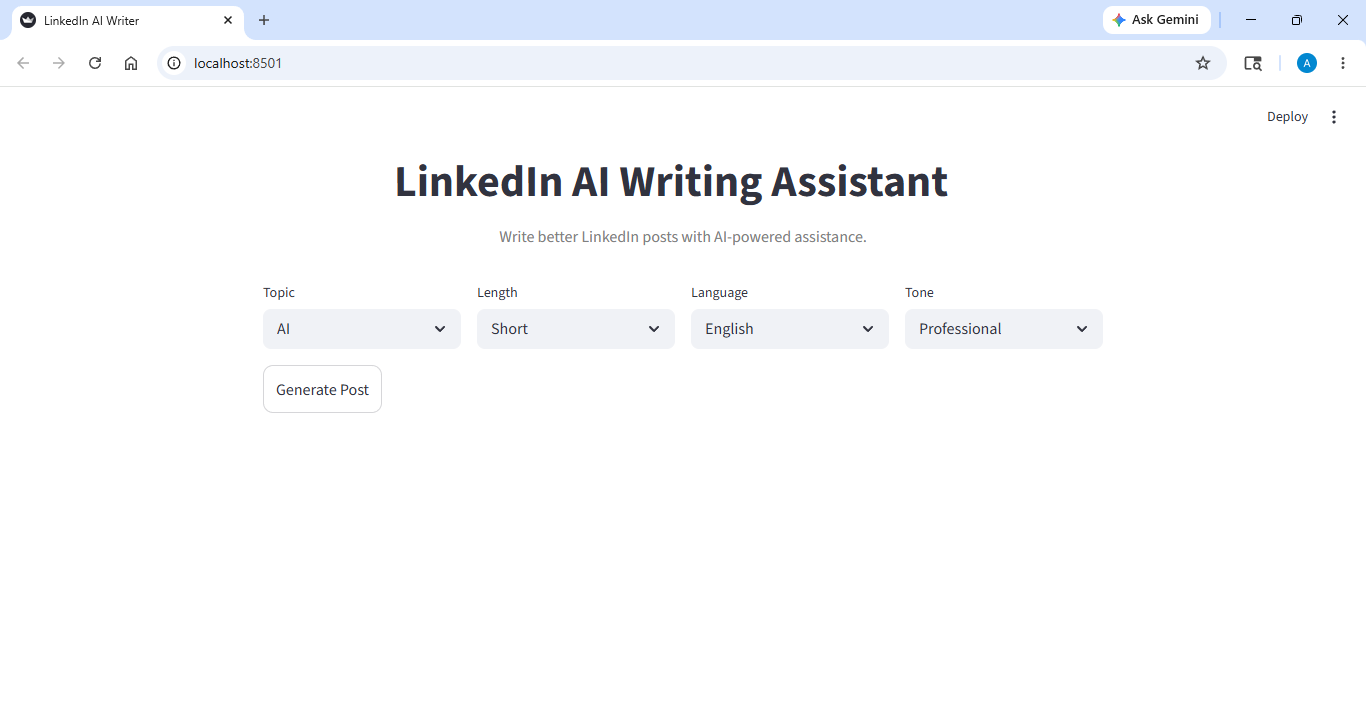
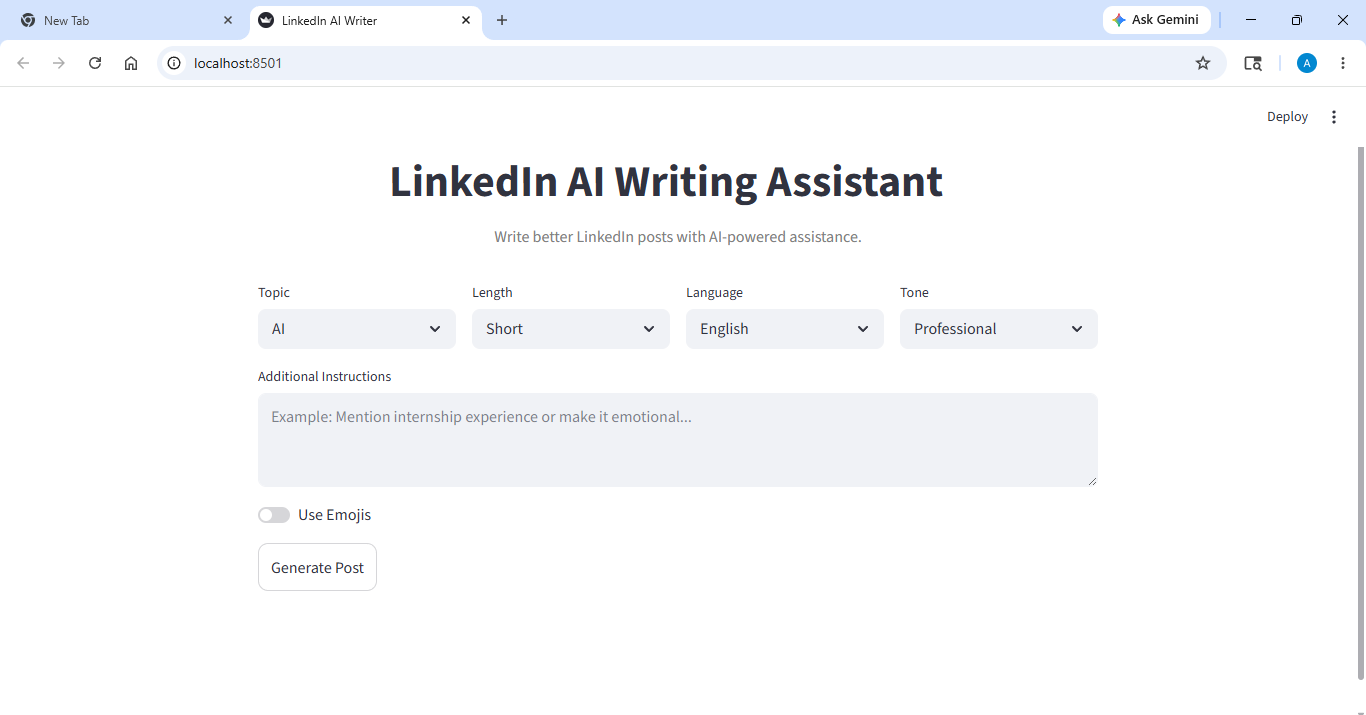
Added conversational refinement and UI improvements

diff --git a/README.md b/README.md
@@ -24,6 +24,7 @@ instead of relying only on static prompting.
 ### Generated LinkedIn Post
 
 <img width="100%" alt="Generated Post" src="screenshots\img2.png">
+<img width="100%" alt="Generated Post" src="screenshots\img3.png">
 
 ---
 
@@ -35,8 +36,9 @@ instead of relying only on static prompting.
 * Dynamic retrieval using SQLite
 * Metadata extraction and filtering
 * Interactive Streamlit UI
-* Copy-ready generated posts
-
+* Conversational post refinement
+* Additional context-based generation
+* Emoji style control
 ---
 
 ## Tech Stack
